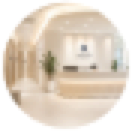
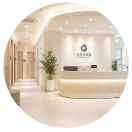
fix: replace home hospital thumbnails with 3x exports

diff --git a/HANDOFF.md b/HANDOFF.md
@@ -2,9 +2,9 @@
 
 ### 현재 상태
 
-- GitHub (브랜치/커밋): main, 홈 iOS 상단바 배경 수정 변경사항 push 완료
+- GitHub (브랜치/커밋): main, 홈 인기 진료 아이콘 3x 교체 변경사항 push 완료
 - Vercel 배포 상태: 확인하지 않음
-- 현재 진행 중인 작업: 홈 화면 iOS 상단바 배경색 수정 완료, Vercel 배포 확인 대기
+- 현재 진행 중인 작업: 홈 병원 추천 썸네일 3x 교체 진행 중
 
 ### 완료된 작업
 
@@ -47,6 +47,7 @@
 - 2026-06-21 전체 iOS 상단바 수정: Figma StatusBar 노드 `52:296`을 3x 1179x150 PNG로 추출하여 `IosStatusBar` 공통 컴포넌트로 적용, 홈/주사제 선택/수령 방법/병원 리스트/병원 상세 화면의 CSS 상태바 중복 구현 제거
 - 2026-06-21 홈 iOS 상단바 배경 수정: 3x 상단바 에셋 기반으로 홈 배경색 `#f3f4f7` 전용 `ios-status-bar-home.png`를 추가하고 홈 헤더에서만 적용
 - 2026-06-21 홈 인기 진료 아이콘 화질 수정: Figma 홈 노드 `24:165`, `24:175`, `24:102`, `24:107`을 3x 임시 복제 후 `diet-injection.png`, `hair-loss.png`, `mask.png`, `eye.png`로 재추출하여 교체
+- 2026-06-21 홈 병원 추천 썸네일 화질 수정: Figma 홈 노드 `24:218`, `24:235`, `24:250`을 3x 임시 복제 후 `hospital-rank-01.png`~`hospital-rank-03.png`로 재추출하여 교체
 
 ### 검증 결과
 
@@ -90,6 +91,8 @@
 - 2026-06-21 home-ios-status-bar-build: 홈 전용 iOS 상단바 적용 후 `final/`에서 `npm run build` 성공
 - 2026-06-21 home-care-icon-assets: `diet-injection.png`, `hair-loss.png` 234x234, `mask.png`, `eye.png` 156x156 확인. 홈 헤더/퀵메뉴/하단 탭 아이콘도 렌더 크기 대비 3x 이상 확인
 - 2026-06-21 home-care-icon-build: 홈 인기 진료 아이콘 교체 후 `final/`에서 `npm run build` 성공
+- 2026-06-21 home-hospital-thumbnail-assets: `hospital-rank-01.png`~`hospital-rank-03.png`가 Figma 3x export 기반 132x132 PNG임을 `sips`로 확인
+- 2026-06-21 home-hospital-thumbnail-build: 홈 병원 추천 썸네일 교체 후 `final/`에서 `npm run build` 성공
 
 ### 남은 작업
 